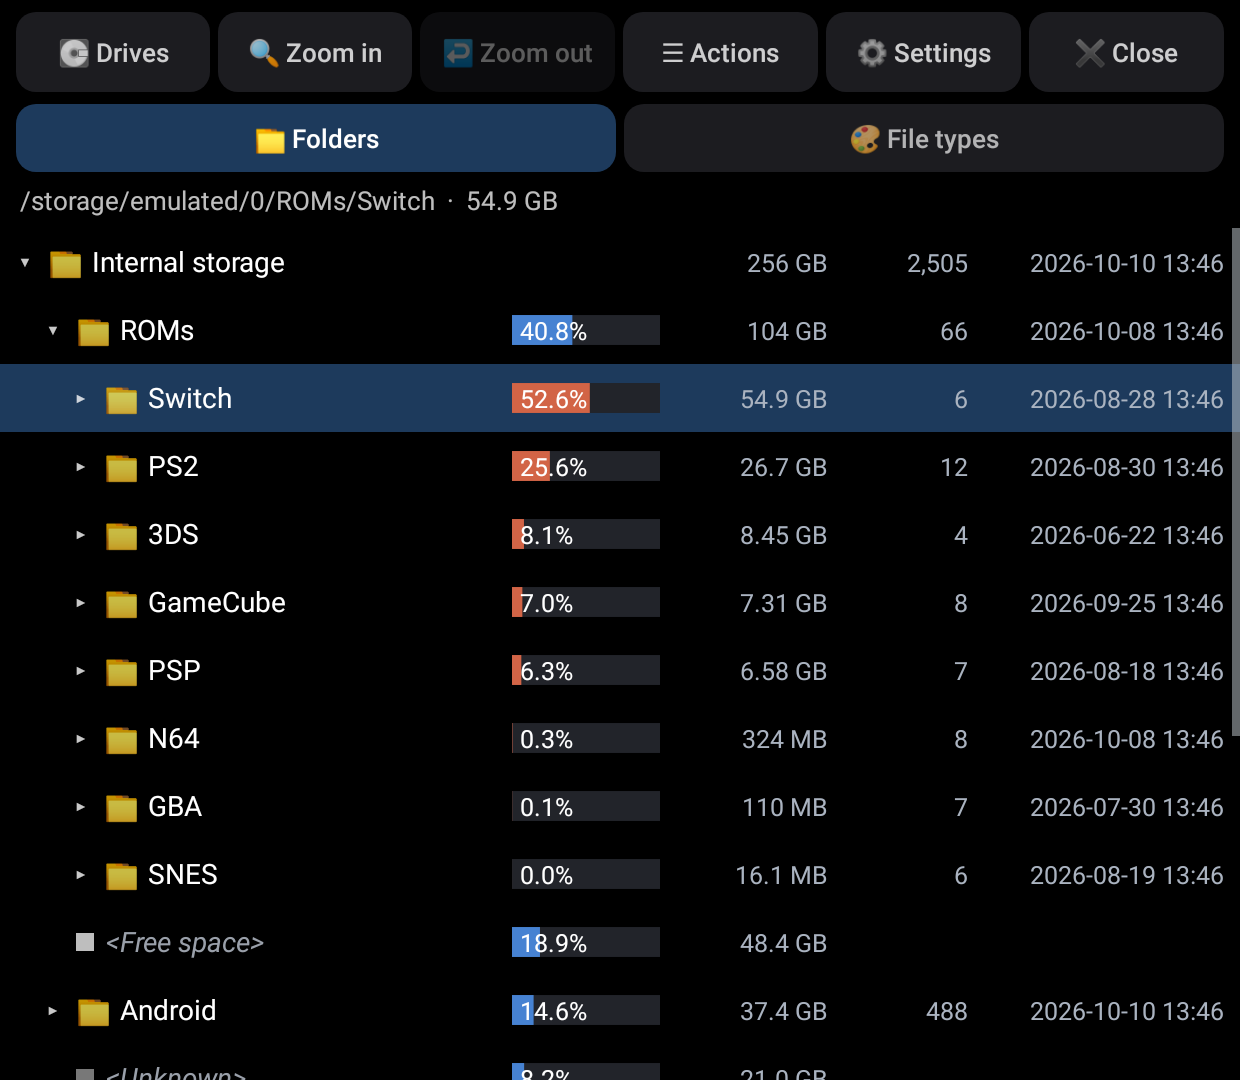
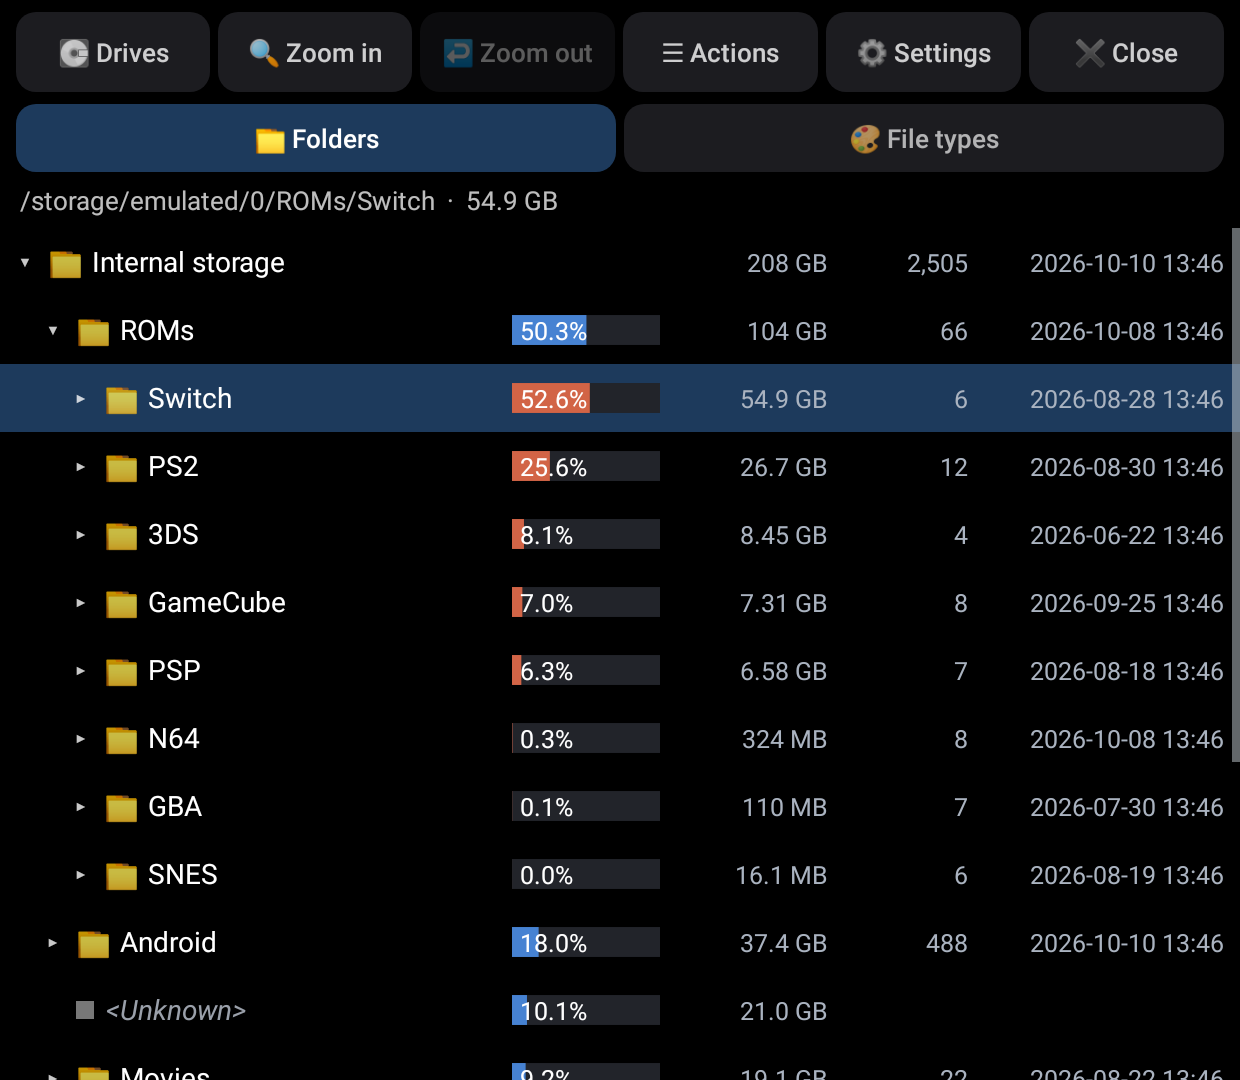
Leave free space out of the treemap and lists; version 1.1
Free space looked like a huge file in the treemap. Each drive's free space
stays in the Drives picker.

Claude-Session: https://claude.ai/code/session_01SPxD1eFhPv82d3N8GqCwDv

diff --git a/app/src/main/java/com/thordirstat/Session.java b/app/src/main/java/com/thordirstat/Session.java
@@ -163,11 +163,13 @@ final class Session {
         }
     }
 
-    // ---- Free space and unknown -------------------------------------------------------------
+    // ---- Unknown -----------------------------------------------------------------------------
 
-    /** Adds or removes each volume's <Free space> and <Unknown> items to match Settings. */
+    /**
+     * Adds or removes each volume's <Unknown> item to match Settings. Free space is left out,
+     * as in WinDirStat's default, so the treemap only shows space that's in use.
+     */
     private void applyPseudoItems(Prefs prefs) {
-        boolean showFree = prefs.showFree();
         boolean showUnknown = prefs.showUnknown();
         for (Map.Entry<Node, Volumes.Volume> e : volumes.entrySet()) {
             Node r = e.getKey();
@@ -184,11 +186,6 @@ final class Session {
                 Node u = new Node("", Node.UNKNOWN, r);
                 u.size = v.used() - scanned;
                 real.add(u);
-            }
-            if (showFree && v.free > 0) {
-                Node f = new Node("", Node.FREE, r);
-                f.size = v.free;
-                real.add(f);
             }
             r.children = real.toArray(Node.NONE);
             r.reaggregateUp();

diff --git a/app/src/main/java/com/thordirstat/Prefs.java b/app/src/main/java/com/thordirstat/Prefs.java
@@ -7,7 +7,6 @@ import android.content.SharedPreferences;
 final class Prefs {
     static final String KEY_BOTH_SCREENS = "both_screens";
     static final String KEY_SWAP_SCREENS = "swap_screens";
-    static final String KEY_SHOW_FREE = "show_free";
     static final String KEY_SHOW_UNKNOWN = "show_unknown";
     static final String KEY_SIZE_ON_DISK = "size_on_disk";
     static final String KEY_CUSHION = "cushion";
@@ -29,8 +28,6 @@ final class Prefs {
     boolean bothScreens() { return sp.getBoolean(KEY_BOTH_SCREENS, true); }
     /** Treemap on the bottom screen, lists on the top. */
     boolean swapScreens() { return sp.getBoolean(KEY_SWAP_SCREENS, false); }
-    /** Show each volume's free space as a <Free space> item, like WinDirStat. */
-    boolean showFree() { return sp.getBoolean(KEY_SHOW_FREE, true); }
     /** Show the used space no folder accounts for (apps, system) as <Unknown>. */
     boolean showUnknown() { return sp.getBoolean(KEY_SHOW_UNKNOWN, true); }
     /** Count the space files take on disk instead of their length. */

diff --git a/app/src/main/java/com/thordirstat/Node.java b/app/src/main/java/com/thordirstat/Node.java
@@ -10,7 +10,7 @@ import java.util.Comparator;
  * Kept free of Android classes so the layout and treemap can be tested on a desktop JVM.
  */
 final class Node {
-    static final byte FILE = 0, DIR = 1, FREE = 2, UNKNOWN = 3;
+    static final byte FILE = 0, DIR = 1, UNKNOWN = 3;
     static final Node[] NONE = new Node[0];
 
     /** For the root of a volume, its full path; otherwise the file or folder name. */
@@ -43,13 +43,12 @@ final class Node {
 
     boolean isDir() { return kind == DIR; }
 
-    /** A real file or folder (not free space or the unknown remainder). */
+    /** A real file or folder (not the <Unknown> remainder). */
     boolean isReal() { return kind == FILE || kind == DIR; }
 
     String displayName() {
         if (label != null) return label;
         switch (kind) {
-            case FREE: return "<Free space>";
             case UNKNOWN: return "<Unknown>";
             default: return name;
         }

diff --git a/app/src/main/java/com/thordirstat/FileTypes.java b/app/src/main/java/com/thordirstat/FileTypes.java
@@ -19,7 +19,6 @@ final class FileTypes implements Treemap.Colors {
             0x0000ff, 0xff0000, 0x00ff00, 0x00ffff, 0xff00ff, 0xffff00,
             0x9696ff, 0xff9696, 0x96ff96, 0x96ffff, 0xff96ff, 0xffff96, 0xffffff};
     static final int OTHER = 0x969696;
-    static final int FREE = 0xbebebe;
     static final int UNKNOWN = 0x787878;
 
     static final class Type {
@@ -80,7 +79,6 @@ final class FileTypes implements Treemap.Colors {
 
     @Override public int color(Node leaf) {
         switch (leaf.kind) {
-            case Node.FREE: return FREE;
             case Node.UNKNOWN: return UNKNOWN;
             case Node.FILE:
                 Type t = of(leaf.ext);

diff --git a/test/TreemapTest.java b/test/TreemapTest.java
@@ -23,13 +23,6 @@ public class TreemapTest {
         root.label = "Internal storage";
         root.children = folder(root, rnd, 0).toArray(Node.NONE);
         root.aggregate();
-        Node free = new Node("", Node.FREE, root);
-        free.size = root.size / 3;
-        Node[] withFree = new Node[root.children.length + 1];
-        System.arraycopy(root.children, 0, withFree, 0, root.children.length);
-        withFree[root.children.length] = free;
-        root.children = withFree;
-        root.reaggregateUp();
 
         FileTypes types = new FileTypes(root);
         check(types.sorted().get(0).color == FileTypes.PALETTE[0], "biggest type gets the first colour");

diff --git a/app/src/main/java/com/thordirstat/SettingsActivity.java b/app/src/main/java/com/thordirstat/SettingsActivity.java
@@ -73,7 +73,6 @@ public class SettingsActivity extends Activity {
                 ViewGroup.LayoutParams.WRAP_CONTENT, ViewGroup.LayoutParams.WRAP_CONTENT));
 
         list.addView(text("\nScanning", 17));
-        toggle("Show <Free space> for each drive", Prefs.KEY_SHOW_FREE, prefs.showFree());
         toggle("Show <Unknown> (used space no folder accounts for: apps, their private data and Android)",
                 Prefs.KEY_SHOW_UNKNOWN, prefs.showUnknown());
         toggle("Count size on disk instead of file length (takes effect on the next scan)",

diff --git a/README.md b/README.md
@@ -62,8 +62,9 @@ rescan a folder, and delete (asks first; Android has no recycle bin).
 folder, **X** shows actions, **Y** zooms in, **B** zooms out, **L1 / R1** switch between Folders and
 File types. Works from either screen.
 
-`<Free space>` and `<Unknown>` show each drive's free space and the used space no folder
-accounts for (installed apps, their private data and Android itself), as in WinDirStat.
+`<Unknown>` shows the used space no folder accounts for (installed apps, their private data and
+Android itself), as in WinDirStat. The treemap only shows space in use; each drive's free space
+is in 💽 Drives.
 
 ## ⚙ Settings
 
@@ -71,7 +72,7 @@ accounts for (installed apps, their private data and Android itself), as in WinD
   the lists and the treemap side by side on one screen. **Swap screens** flips them.
 - 🗺 **Treemap:** cushion shading, grid lines, brightness, cushion height and scale, with a reset to
   WinDirStat's defaults
-- 💽 **Scanning:** show `<Free space>`, show `<Unknown>`, and count size on disk instead of file length
+- 💽 **Scanning:** show `<Unknown>` and count size on disk instead of file length
 - 📳 **Haptics:** a feel (Off, Tick, Click, Heavy, Double or Buzz) and strength for each action,
   with a preview as you change them
 - 🔄 **Check for updates** and **Reinstall** (at the bottom), as in ThorPad: finds a newer
